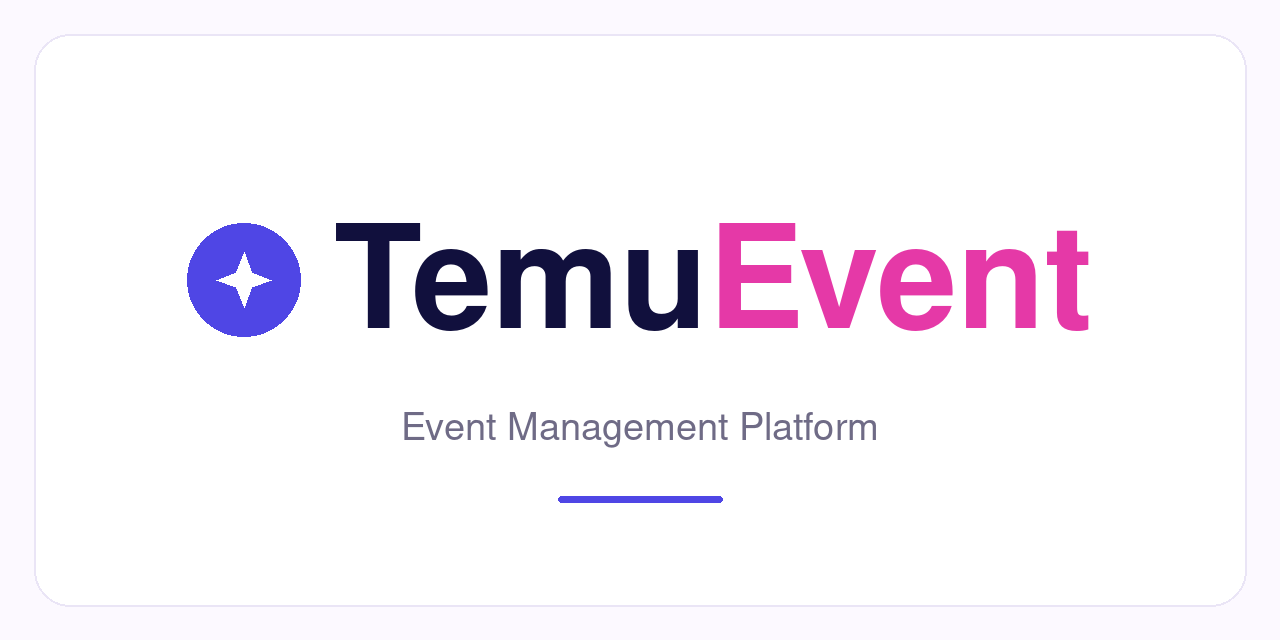
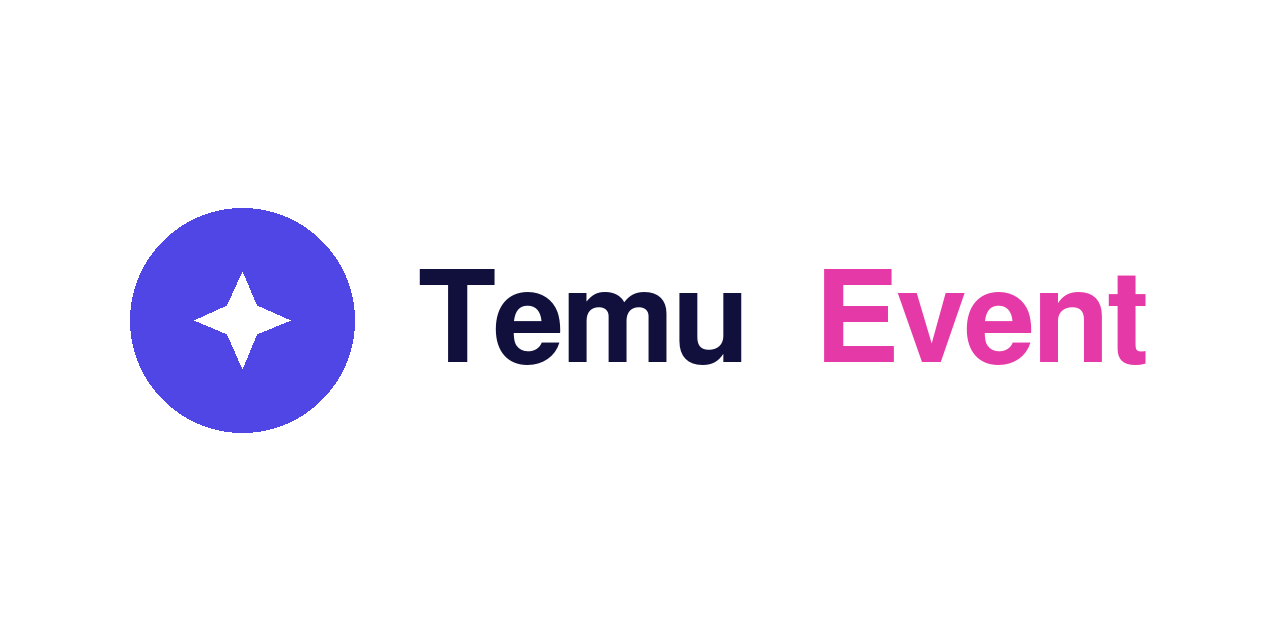
Restore the simple TemuEvent mark from the feature 1 header

Changed region(s): [[0.0938, 0.3125, 0.9062, 0.6875], [0.3125, 0.625, 0.6875, 0.6875], [0.4375, 0.75, 0.5625, 0.8125]]

diff --git a/README.md b/README.md
@@ -1,4 +1,4 @@
-![TemuEvent](docs/branding/temuevent-logo.svg)
+<img src="docs/branding/temuevent-logo.svg" alt="TemuEvent" width="180" />
 
 # TemuEvent — Event Management Platform
 
